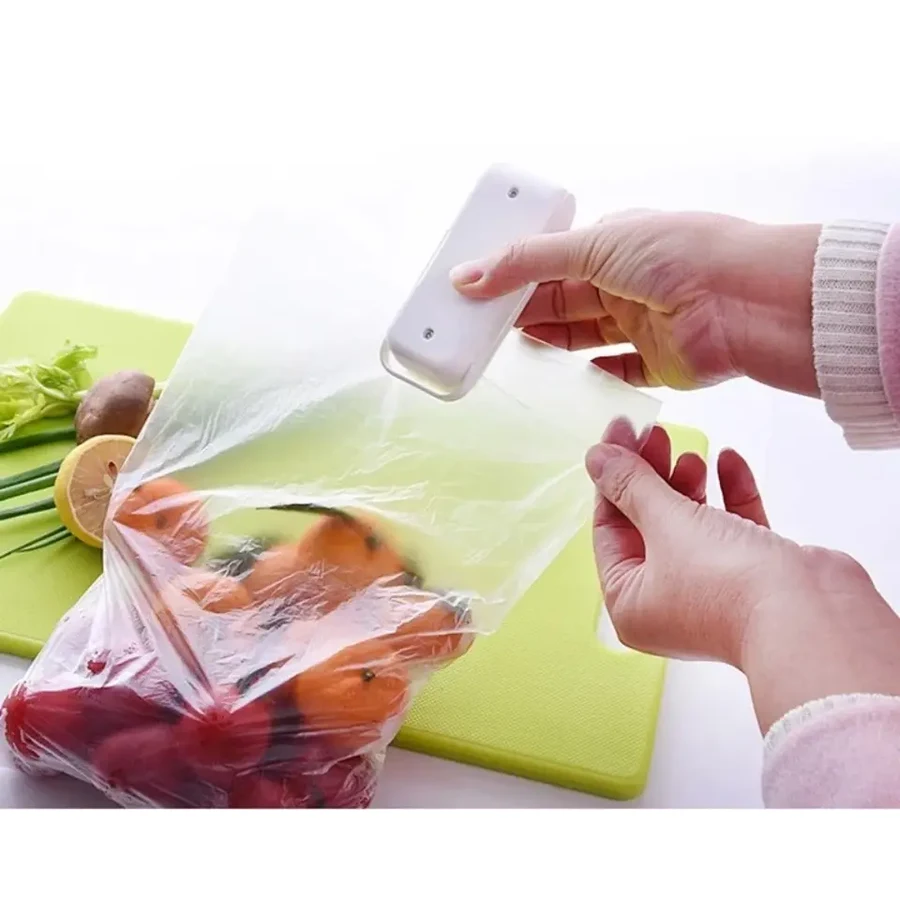
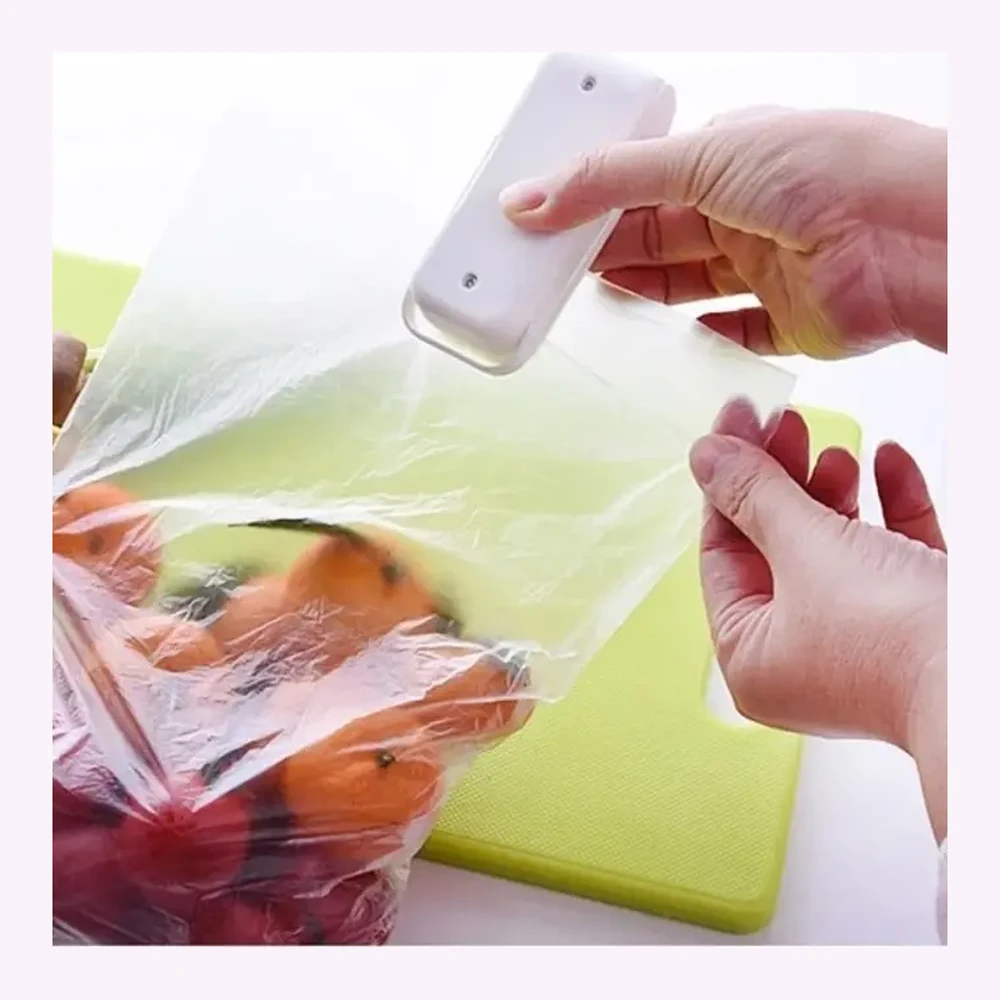
Crop product photos to fill the frame; drop the weak shots

diff --git a/index.html b/index.html
@@ -8,7 +8,7 @@
 <link rel="preconnect" href="https://fonts.googleapis.com">
 <link rel="preconnect" href="https://fonts.gstatic.com" crossorigin>
 <link href="https://fonts.googleapis.com/css2?family=Inter:wght@400;500;600;700&display=swap" rel="stylesheet">
-<link rel="stylesheet" href="style.css?v=4">
+<link rel="stylesheet" href="style.css?v=5">
 </head>
 <body>
 
@@ -27,7 +27,7 @@
 
 <section class="hero">
   <div class="wrap hero-grid">
-    <div class="hero-img"><img src="bilder/mini-1.webp?v=4" alt="FreshSeal Mini Sealer in white, with its USB-C cable"></div>
+    <div class="hero-img"><img src="bilder/mini-1.webp?v=5" alt="FreshSeal Mini Sealer in white, with its USB-C cable"></div>
     <div class="hero-text">
       <p class="eyebrow">The flagship</p>
       <h1>Stop throwing away half a bag</h1>
@@ -48,19 +48,19 @@
     <p class="range-note">Three sealers, one job. Pick the one that fits your kitchen.</p>
     <div class="cards">
       <a class="card" href="mini-sealer.html">
-        <div class="card-img"><img src="bilder/mini-1.webp?v=4" alt="FreshSeal Mini Sealer in white, with its USB-C cable"></div>
+        <div class="card-img"><img src="bilder/mini-1.webp?v=5" alt="FreshSeal Mini Sealer in white, with its USB-C cable"></div>
         <h3>Mini Sealer</h3>
         <p>Oppladbar, med kutter og magnet. Flaggskipet.</p>
         <div class="card-price">$24.99</div>
       </a>
       <a class="card" href="classic.html">
-        <div class="card-img"><img src="bilder/classic-1.webp?v=4" alt="FreshSeal Classic in white"></div>
+        <div class="card-img"><img src="bilder/classic-1.webp?v=5" alt="FreshSeal Classic in white"></div>
         <h3>Classic</h3>
         <p>Den enkle. Over 100 000 selde.</p>
         <div class="card-price">$24.99</div>
       </a>
       <a class="card" href="duck.html">
-        <div class="card-img"><img src="bilder/duck-1.webp?v=4" alt="FreshSeal Duck, a duck-shaped bag sealer"></div>
+        <div class="card-img"><img src="bilder/duck-1.webp?v=5" alt="FreshSeal Duck, a duck-shaped bag sealer"></div>
         <h3>Duck</h3>
         <p>Same jobb, men den sit på kjøleskapet og ser deg i auga.</p>
         <div class="card-price">$24.99</div>

diff --git a/mini-sealer.html b/mini-sealer.html
@@ -8,7 +8,7 @@
 <link rel="preconnect" href="https://fonts.googleapis.com">
 <link rel="preconnect" href="https://fonts.gstatic.com" crossorigin>
 <link href="https://fonts.googleapis.com/css2?family=Inter:wght@400;500;600;700&display=swap" rel="stylesheet">
-<link rel="stylesheet" href="style.css?v=4">
+<link rel="stylesheet" href="style.css?v=5">
 </head>
 <body>
 
@@ -34,13 +34,12 @@
 
     <div>
       <div class="gallery-main">
-        <img id="mainImage" src="bilder/mini-1.webp?v=4" alt="FreshSeal Mini Sealer in white, with its USB-C cable">
+        <img id="mainImage" src="bilder/mini-1.webp?v=5" alt="FreshSeal Mini Sealer in white, with its USB-C cable">
       </div>
       <div class="thumbs" id="thumbs">
-        <button aria-current="true"><img src="bilder/mini-1.webp?v=4" alt="FreshSeal Mini Sealer in white, with its USB-C cable"></button>
-        <button><img src="bilder/mini-2.webp?v=4" alt="Sealing a coffee bag with the Mini Sealer"></button>
-        <button><img src="bilder/mini-3.webp?v=4" alt="The Mini Sealer held on a fridge door by its magnet"></button>
-        <button><img src="bilder/mini-4.webp?v=4" alt="Cutter, sealer, magnetic base and charging port"></button>
+        <button aria-current="true"><img src="bilder/mini-1.webp?v=5" alt="FreshSeal Mini Sealer in white, with its USB-C cable"></button>
+        <button><img src="bilder/mini-3.webp?v=5" alt="The Mini Sealer held on a fridge door by its magnet"></button>
+        <button><img src="bilder/mini-4.webp?v=5" alt="Cutter, sealer, magnetic base and charging port"></button>
       </div>
     </div>
 

diff --git a/classic.html b/classic.html
@@ -8,7 +8,7 @@
 <link rel="preconnect" href="https://fonts.googleapis.com">
 <link rel="preconnect" href="https://fonts.gstatic.com" crossorigin>
 <link href="https://fonts.googleapis.com/css2?family=Inter:wght@400;500;600;700&display=swap" rel="stylesheet">
-<link rel="stylesheet" href="style.css?v=4">
+<link rel="stylesheet" href="style.css?v=5">
 </head>
 <body>
 
@@ -34,13 +34,13 @@
 
     <div>
       <div class="gallery-main">
-        <img id="mainImage" src="bilder/classic-1.webp?v=4" alt="FreshSeal Classic in white">
+        <img id="mainImage" src="bilder/classic-1.webp?v=5" alt="FreshSeal Classic in white">
       </div>
       <div class="thumbs" id="thumbs">
-        <button aria-current="true"><img src="bilder/classic-1.webp?v=4" alt="FreshSeal Classic in white"></button>
-        <button><img src="bilder/classic-2.webp?v=4" alt="Sealing a snack bag by hand"></button>
-        <button><img src="bilder/classic-3.webp?v=4" alt="Sealing a freezer bag of vegetables"></button>
-        <button><img src="bilder/classic-4.webp?v=4" alt="The Classic slipped into a coat pocket"></button>
+        <button aria-current="true"><img src="bilder/classic-1.webp?v=5" alt="FreshSeal Classic in white"></button>
+        <button><img src="bilder/classic-2.webp?v=5" alt="Sealing a snack bag by hand"></button>
+        <button><img src="bilder/classic-3.webp?v=5" alt="Sealing a freezer bag of vegetables"></button>
+        <button><img src="bilder/classic-4.webp?v=5" alt="The Classic slipped into a coat pocket"></button>
       </div>
     </div>
 

diff --git a/duck.html b/duck.html
@@ -8,7 +8,7 @@
 <link rel="preconnect" href="https://fonts.googleapis.com">
 <link rel="preconnect" href="https://fonts.gstatic.com" crossorigin>
 <link href="https://fonts.googleapis.com/css2?family=Inter:wght@400;500;600;700&display=swap" rel="stylesheet">
-<link rel="stylesheet" href="style.css?v=4">
+<link rel="stylesheet" href="style.css?v=5">
 </head>
 <body>
 
@@ -34,12 +34,12 @@
 
     <div>
       <div class="gallery-main">
-        <img id="mainImage" src="bilder/duck-1.webp?v=4" alt="FreshSeal Duck, a duck-shaped bag sealer">
+        <img id="mainImage" src="bilder/duck-1.webp?v=5" alt="FreshSeal Duck, a duck-shaped bag sealer">
       </div>
       <div class="thumbs" id="thumbs">
-        <button aria-current="true"><img src="bilder/duck-1.webp?v=4" alt="FreshSeal Duck, a duck-shaped bag sealer"></button>
-        <button><img src="bilder/duck-2.webp?v=4" alt="The Duck resting on a kitchen table"></button>
-        <button><img src="bilder/duck-3.webp?v=4" alt="Sealing a bag with the Duck"></button>
+        <button aria-current="true"><img src="bilder/duck-1.webp?v=5" alt="FreshSeal Duck, a duck-shaped bag sealer"></button>
+        <button><img src="bilder/duck-2.webp?v=5" alt="The Duck resting on a kitchen table"></button>
+        <button><img src="bilder/duck-3.webp?v=5" alt="Sealing a snack bag with the Duck"></button>
       </div>
     </div>
 

diff --git a/bilder.py b/bilder.py
@@ -1,0 +1,52 @@
+#!/usr/bin/env python3
+"""Lagar produktbilete: fjernar tekstbanner, trimmar kantar, beskjer til kvadrat."""
+from PIL import Image, ImageChops
+
+def bakgrunnsfarge(im):
+    k = [im.getpixel(p) for p in
+         [(0,0),(im.width-1,0),(0,im.height-1),(im.width-1,im.height-1)]]
+    return tuple(sum(c[i] for c in k)//4 for i in range(3))
+
+def trim(im, toleranse=14):
+    bg = Image.new("RGB", im.size, bakgrunnsfarge(im))
+    diff = ImageChops.difference(im, bg).convert("L").point(lambda p: 255 if p > toleranse else 0)
+    boks = diff.getbbox()
+    return im.crop(boks) if boks else im
+
+def lag(src, dst, kutt=None, storleik=1000, luft=0.06):
+    im = Image.open(src).convert("RGB")
+    if kutt:                                    # (topp, botn) i prosent — fjernar tekstbanner
+        t, b = kutt
+        im = im.crop((0, int(im.height*t), im.width, int(im.height*(1-b))))
+    im = trim(im)
+    bg = bakgrunnsfarge(im)
+    # kvadrat: beskjer den lange sida rundt midten, i staden for å leggje til stolpar
+    s = min(im.size)
+    x = (im.width - s)//2
+    y = (im.height - s)//2
+    im = im.crop((x, y, x+s, y+s))
+    # litt luft rundt, i same farge som bakgrunnen — ingen harde kvite stolpar
+    ramme = int(s*luft)
+    lerret = Image.new("RGB", (s+2*ramme, s+2*ramme), bg)
+    lerret.paste(im, (ramme, ramme))
+    lerret.resize((storleik, storleik), Image.LANCZOS).save(dst, "WEBP", quality=90)
+
+JOBBAR = [
+    ("bilder-nye2/n-8.jpg",  "bilder/mini-1.webp",    None),
+    ("bilder-nye2/n-6.jpg",  "bilder/mini-3.webp",    (0.20, 0)),
+    ("bilder-nye2/n-4.jpg",  "bilder/mini-4.webp",    None),
+
+    ("raa/classic/c-6.jpg",  "bilder/classic-1.webp", (0.24, 0)),
+    ("raa/classic/c-1.jpg",  "bilder/classic-2.webp", None),
+    ("raa/classic/c-3.jpg",  "bilder/classic-3.webp", (0.20, 0)),
+    ("raa/classic/c-4.jpg",  "bilder/classic-4.webp", (0.26, 0)),
+
+    ("raa/duck/d-6.jpg",     "bilder/duck-1.webp",    None),
+    ("raa/duck/d-1.jpg",     "bilder/duck-2.webp",    (0.20, 0.38)),
+    # duck-3 er eit utsnitt av d-3, sjå historikk
+]
+
+if __name__ == "__main__":
+    for src, dst, kutt in JOBBAR:
+        lag(src, dst, kutt)
+        print(dst.split("/")[-1])

diff --git a/bygg.py b/bygg.py
@@ -6,7 +6,7 @@ Alt innhald ligg i PRODUKT under. Endrar du pris eller tekst, endrar du her
 og køyrer skriptet på nytt — då blir alle sidene oppdaterte likt.
 """
 
-V = "4"  # versjonsnummer på css/bilete, auk denne når du endrar bilete
+V = "5"  # versjonsnummer på css/bilete, auk denne når du endrar bilete
 
 PRODUKT = [
     {
@@ -17,7 +17,6 @@ PRODUKT = [
         "pris": "$24.99",
         "bilete": [
             ("mini-1", "FreshSeal Mini Sealer in white, with its USB-C cable"),
-            ("mini-2", "Sealing a coffee bag with the Mini Sealer"),
             ("mini-3", "The Mini Sealer held on a fridge door by its magnet"),
             ("mini-4", "Cutter, sealer, magnetic base and charging port"),
         ],
@@ -105,7 +104,7 @@ PRODUKT = [
         "bilete": [
             ("duck-1", "FreshSeal Duck, a duck-shaped bag sealer"),
             ("duck-2", "The Duck resting on a kitchen table"),
-            ("duck-3", "Sealing a bag with the Duck"),
+            ("duck-3", "Sealing a snack bag with the Duck"),
         ],
         "bundlar": [
             ("1", "$24.99", None, None, "1 Duck"),
